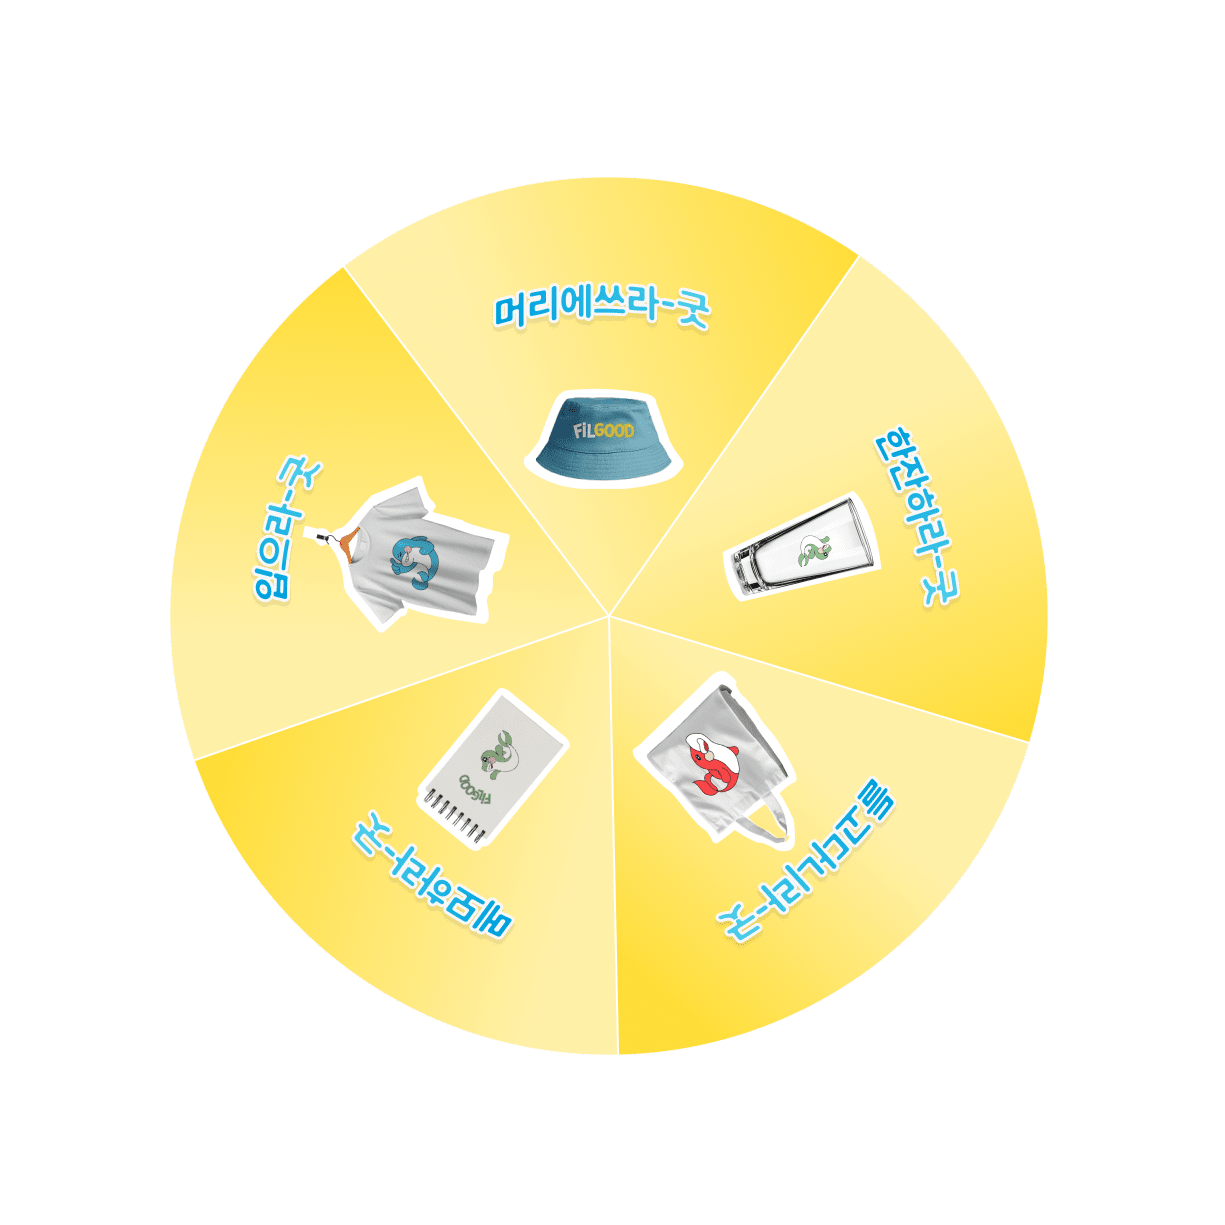
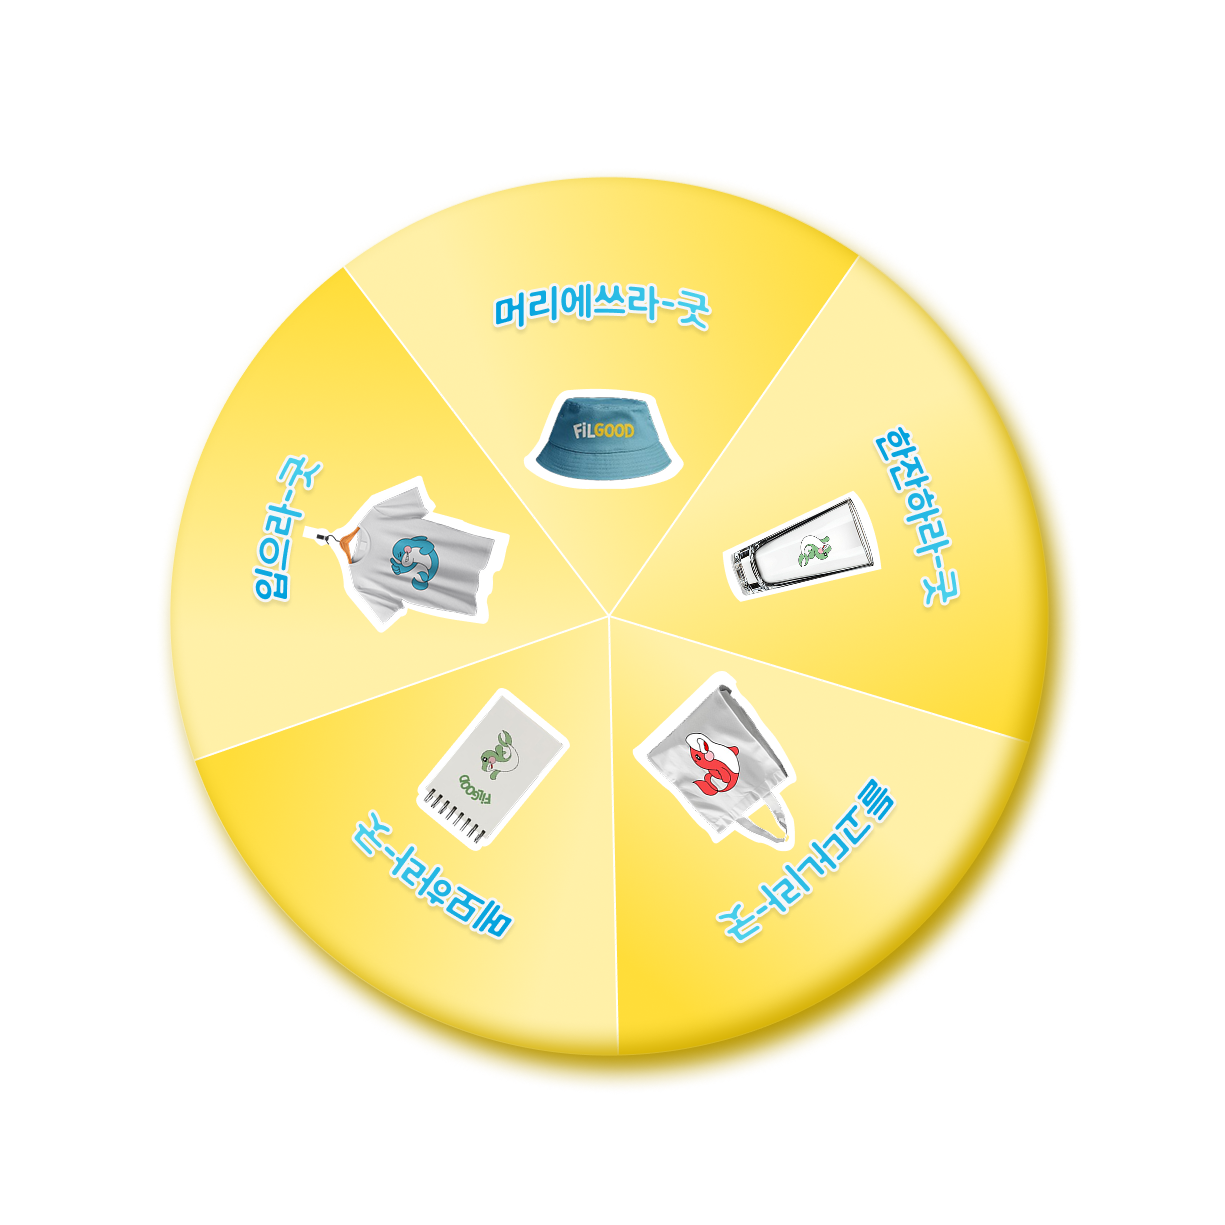
이벤트페이지 룰렛위치잡는중

diff --git a/css/eventPage.css b/css/eventPage.css
@@ -7,6 +7,7 @@
 } */
 .madal {
   width: 100%;
+  position: relative;
 }
 .modal-bg {
   width: 100%;
@@ -17,41 +18,61 @@
   left: 0;
   width: 100%;
 }
+/* 위치 */
 
+#r_event{
+  width: 500px;
+  height: 500px;
+ background-color: #67d9fd;
+ position: absolute;
+ top: 12%;
+ left: 0;
+}
 /* 룰렛 */
+
 .roulette-wrapper {
   position: relative;
   width: 100%;
+  
+  
 }
+
 #start-rotate {
+ 
+  
 }
 #roulette-gift {
   z-index: 2;
-  width: 60%;
+  width: 100%;
   /* max-width: 880px; */
   position: absolute;
-
-  top: 12%;
-  left: 1.5%;
+  top: 0;
+  left: 0;
+  
+  
 }
 
 #roulette-niddle {
   z-index: 3;
-  width: 4.5%;
+  width: 7%;
   /* max-width: 30px; */
   position: absolute;
   /* top: -6300%; */
-  top: 22%;
-  left: 29.2%;
+  top: 10%;
+  left: 50%;
+  transform: translateX(-51%);
 }
 #roulette-startBtn {
   z-index: 3;
   cursor: pointer;
-  width: 8%;
+  width: 10%;
   /* max-width: 132px; */
   position: absolute;
-  top: 65.5%;
-  left: 27.7%;
+  top: 50%;
+  left: 50%;
+  transform: translate(-50%, -50%);
+  /* top: 65.5%; */
+  /* left: 27.7%; */
   display: block;
 }
 @keyframes rotateAnimation {

diff --git a/eventPage.html b/eventPage.html
@@ -77,11 +77,14 @@
         <div class="bg">
           <img src="images/event/modal-bg.png" alt="이벤트" class="modal-bg" />
           <img src="images/event/modal-bg2.png" alt="이벤트" class="modal-bg2" />
-          <img id="roulette-gift" src="images/event/roulette.png" />
-          <img id="roulette-niddle" src="images/event/niddle.png" />
-          <div id="start-rotate">
-            <img id="roulette-startBtn" src="images/event/go.png" />
+          <div id="r_event">
+            <img id="roulette-gift" src="images/event/roulette.png" />
+            <img id="roulette-niddle" src="images/event/niddle.png" />
+            <button id="start-rotate">
+              <img id="roulette-startBtn" src="images/event/go.png" />
+            </button>
           </div>
+          
         </div>
 
         <div class="roulette-wrapper">
